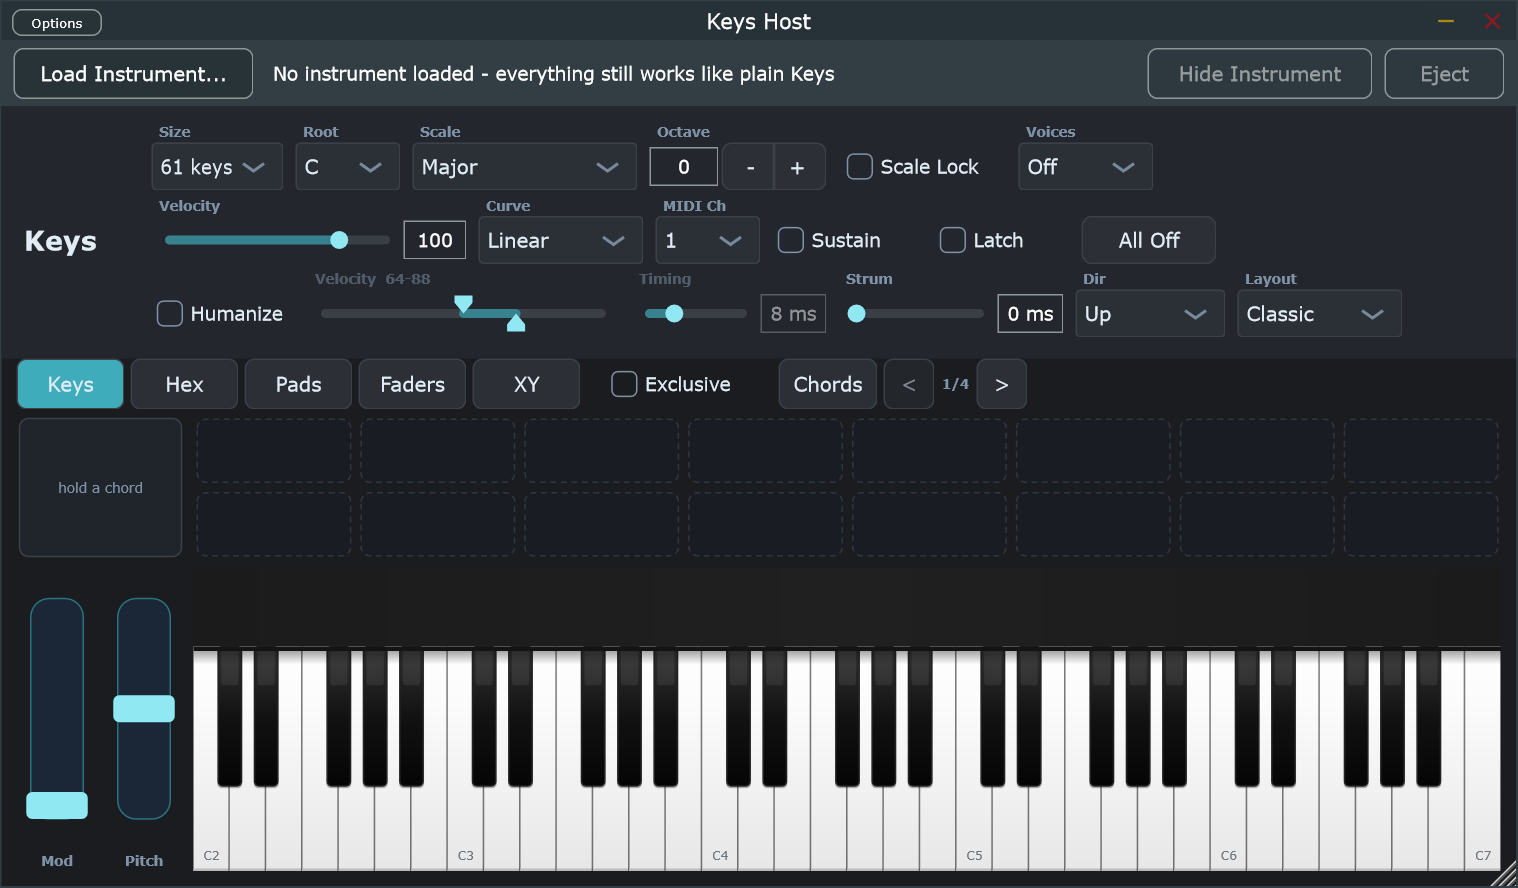
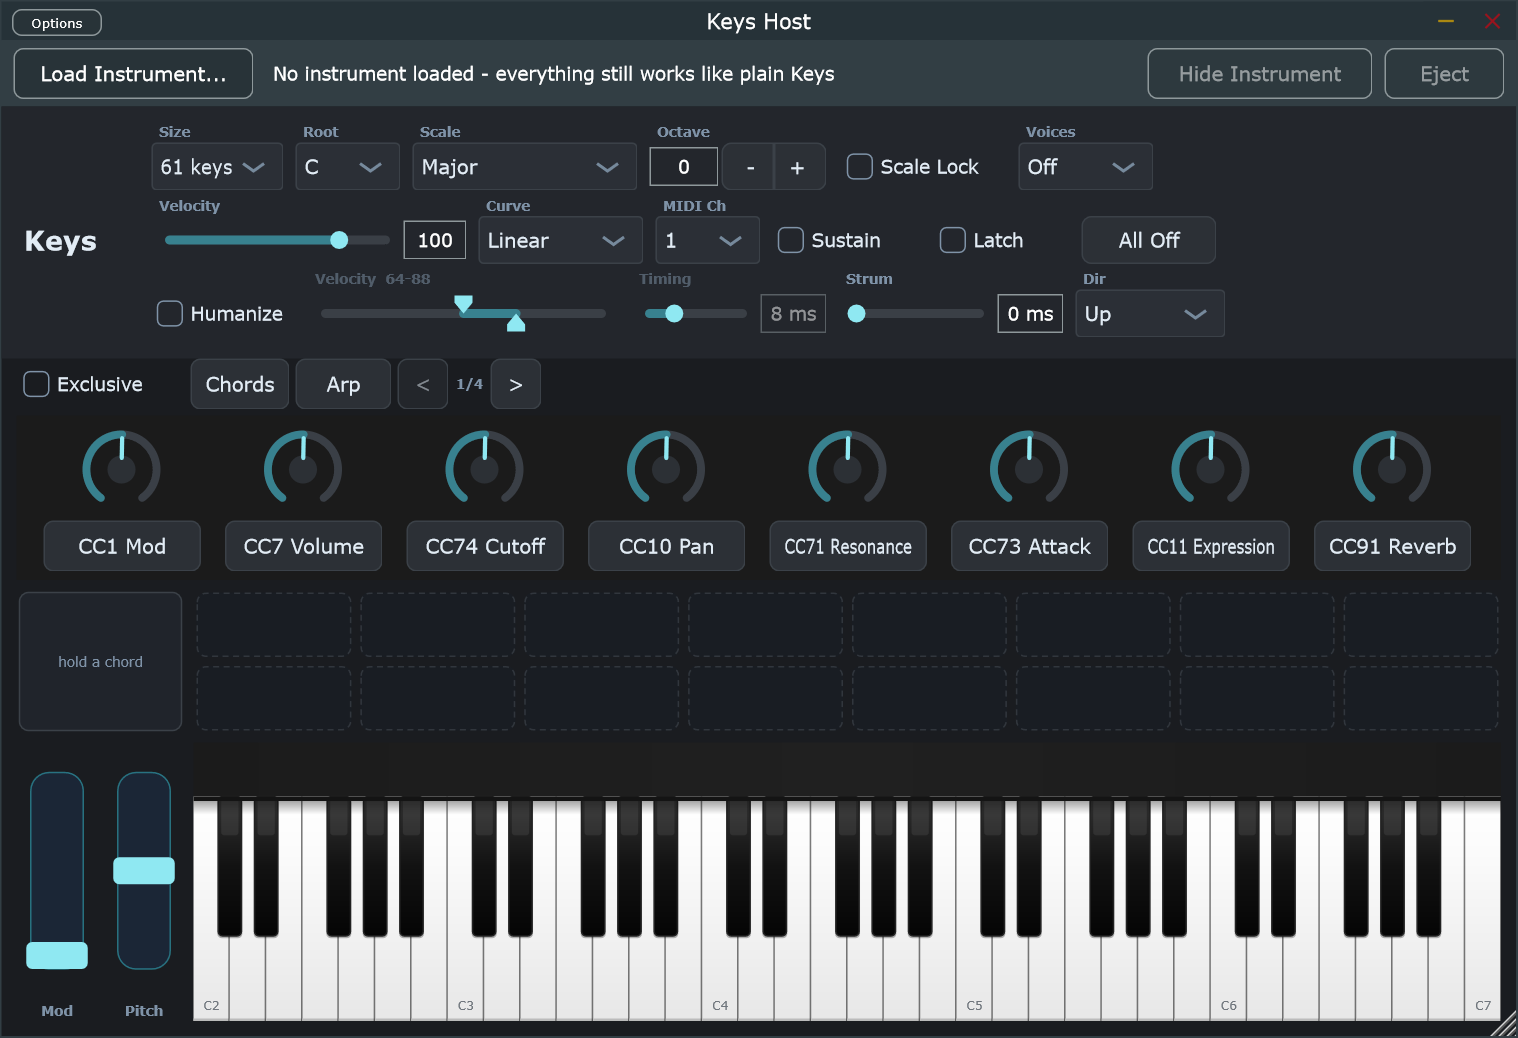
docs: refresh Keys Host and chord-generator screenshots for the one-view UI
Also document the UI Automation trick for capturing overlays (posted
mouse messages never reach JUCE; invoking the button via UIA does,
with no cursor movement).

diff --git a/CLAUDE.md b/CLAUDE.md
@@ -86,6 +86,9 @@ Use the PrintWindow approach (never SetForegroundWindow/SetCursorPos — Owen is
 using the machine, and a mis-capture can grab his private windows). Launch the
 standalone, capture via `PrintWindow(hwnd, hdc, PW_RENDERFULLCONTENT)`, kill the
 process. Screenshots live in `assets/screenshots/`, referenced from README and docs.
+To capture an overlay (Chords/Arp), don't synthesize clicks — posted WM_LBUTTONDOWN
+never reaches JUCE. Invoke the button through UI Automation instead (find the
+AutomationElement by name, InvokePattern.Invoke()); no cursor movement involved.
 
 ## Conventions
 
